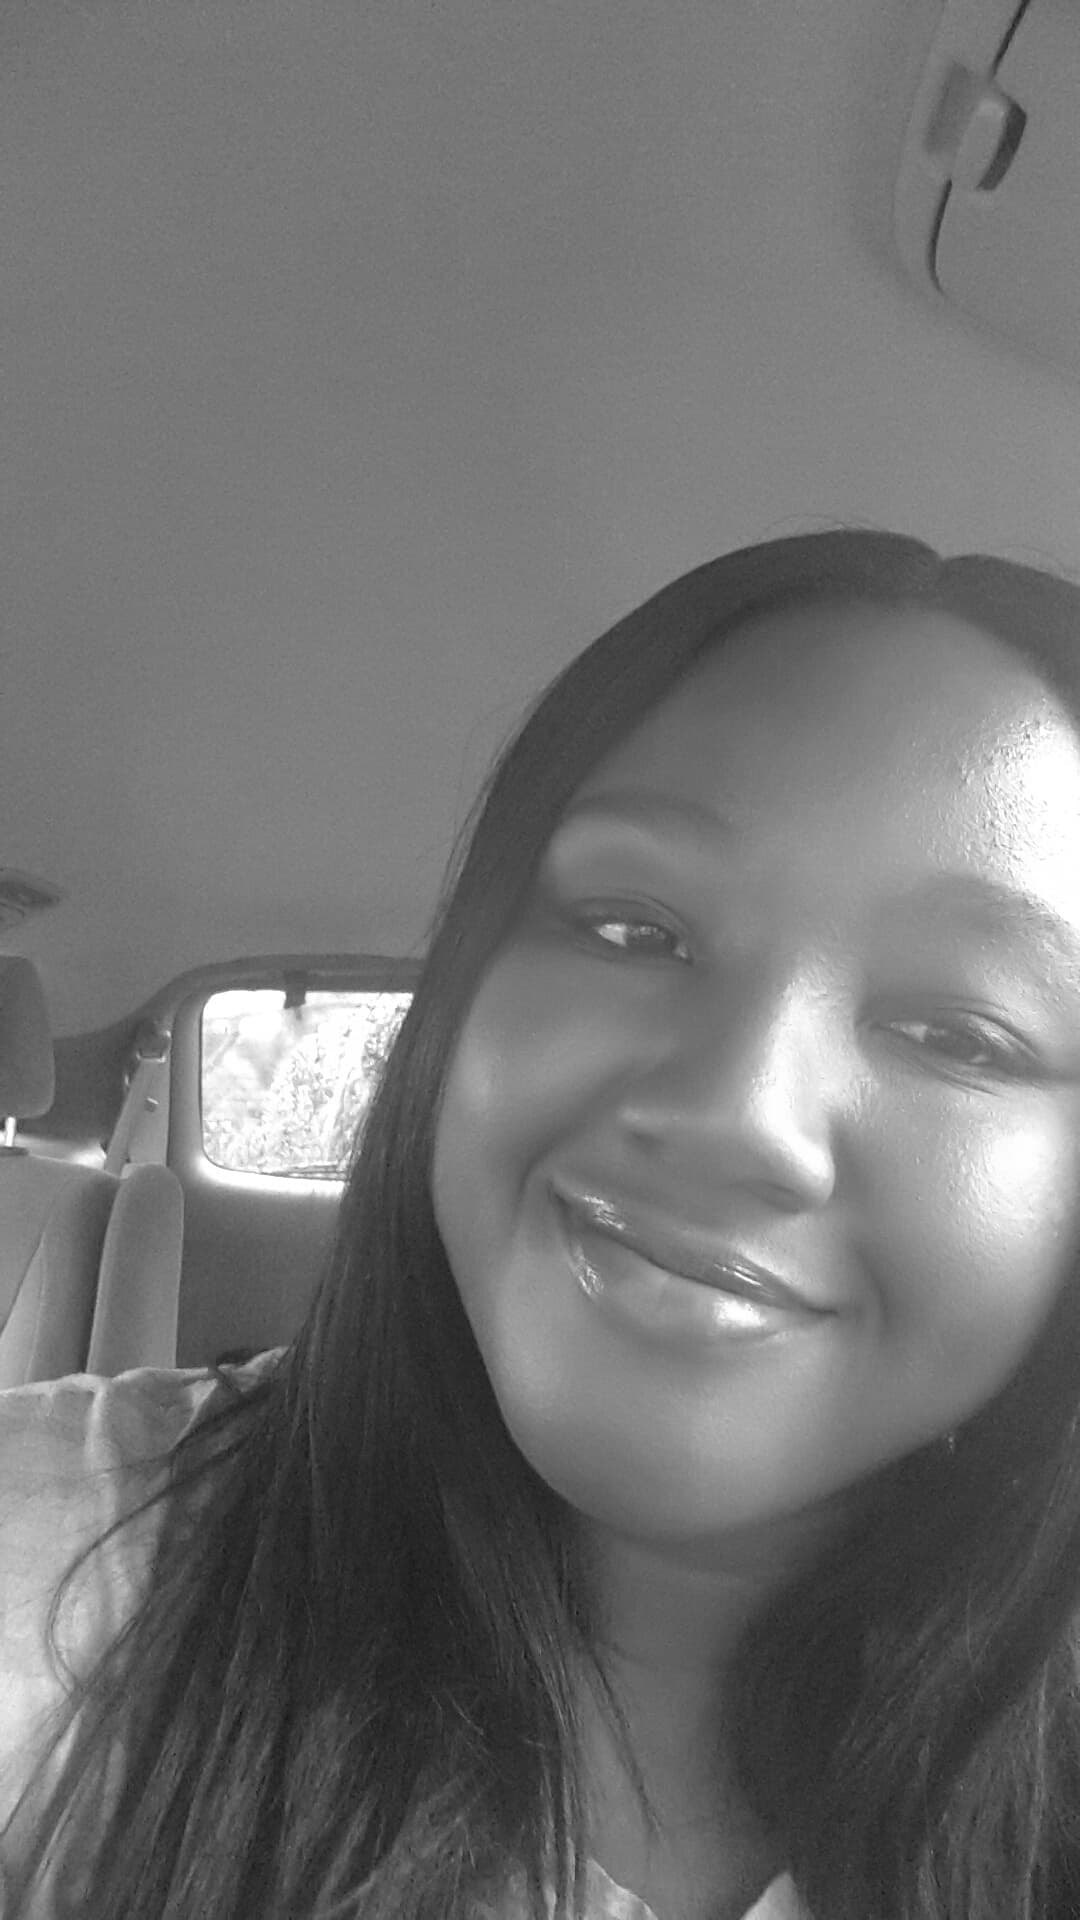
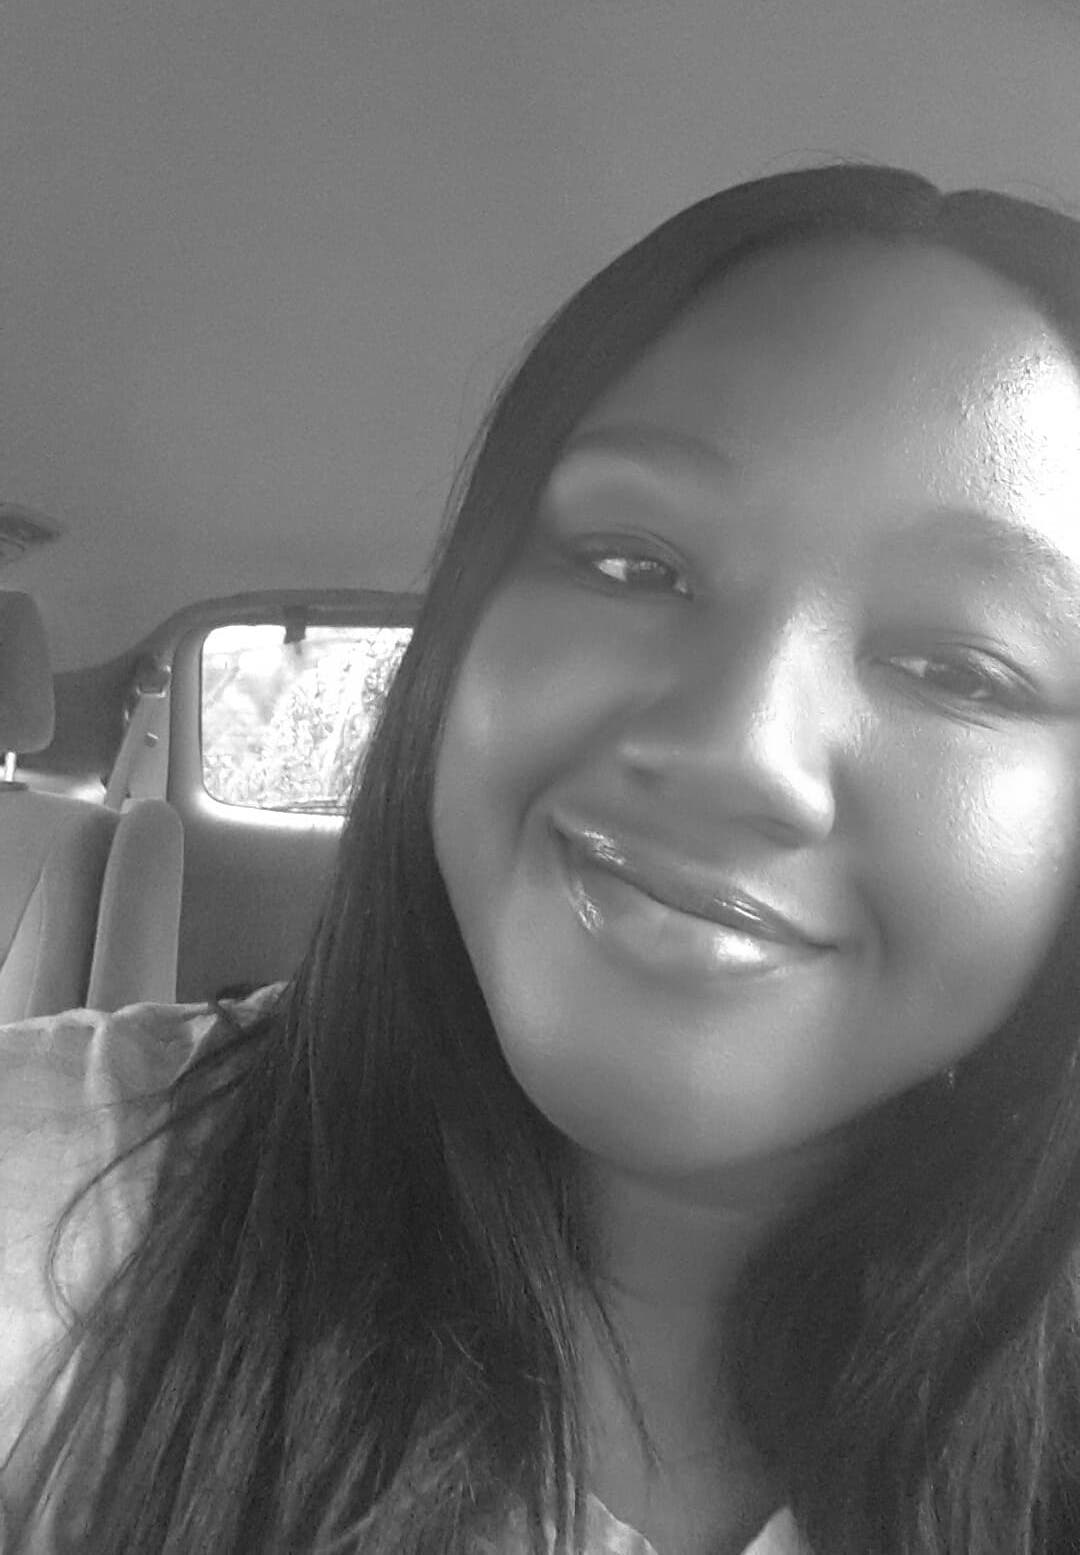
comment headshot

diff --git a/index.html b/index.html
@@ -23,7 +23,7 @@
 
 		<main class="center-of-screen">
 			<center>
-				<img class="headshot"src="./dixiekorley.jpeg" alt="headshot"/>
+				<!-- <img class="headshot"src="./dixiekorley.jpeg" alt="headshot"/> -->
 				
 			<h1>Dixie Korley</h1>
 			<h2>Creator</h2>
